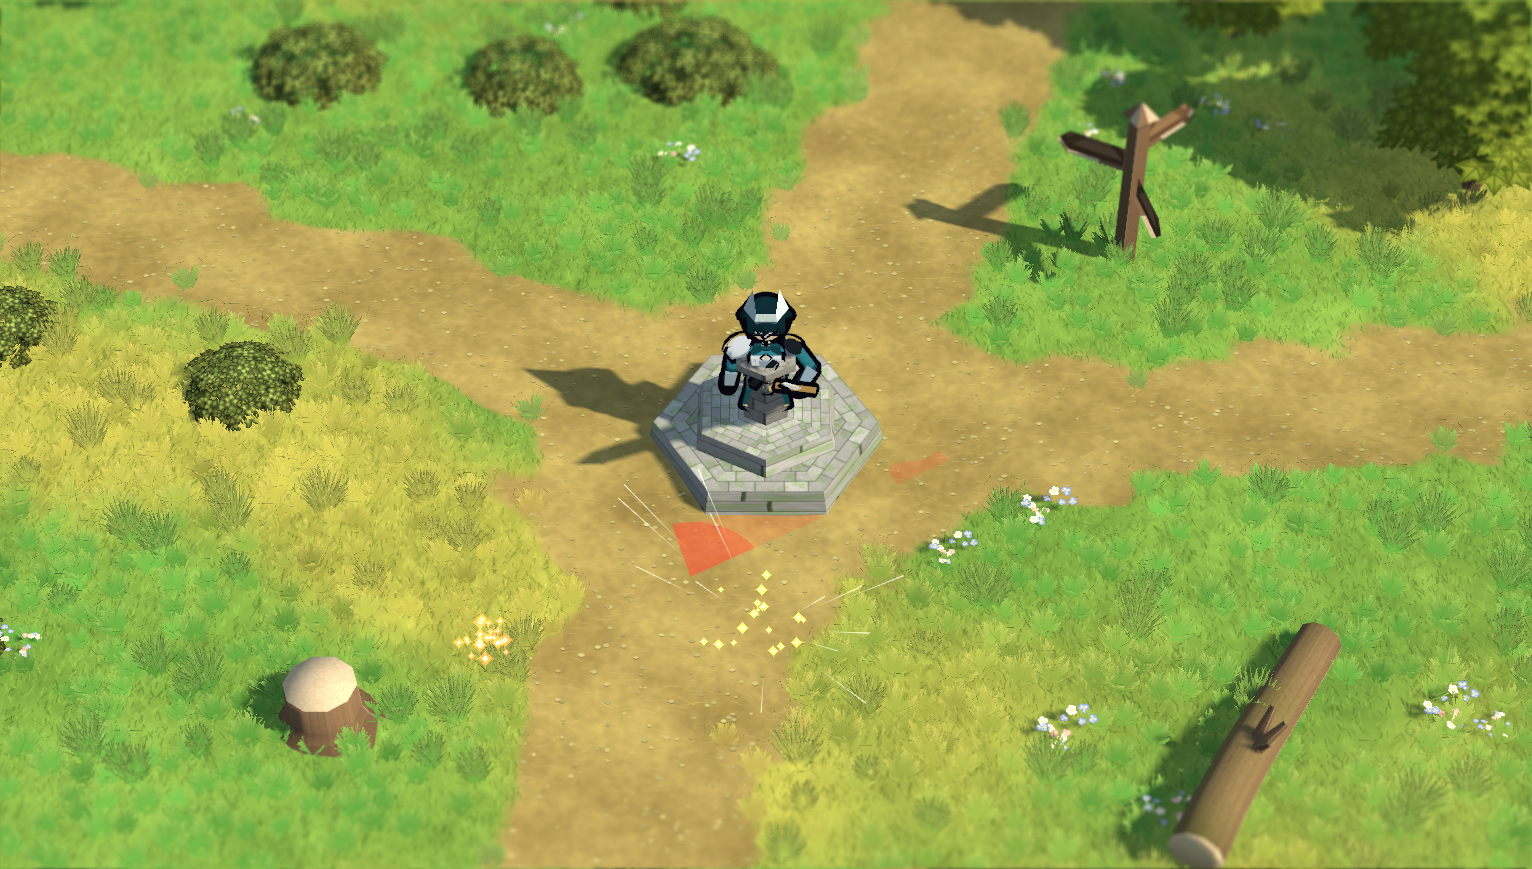
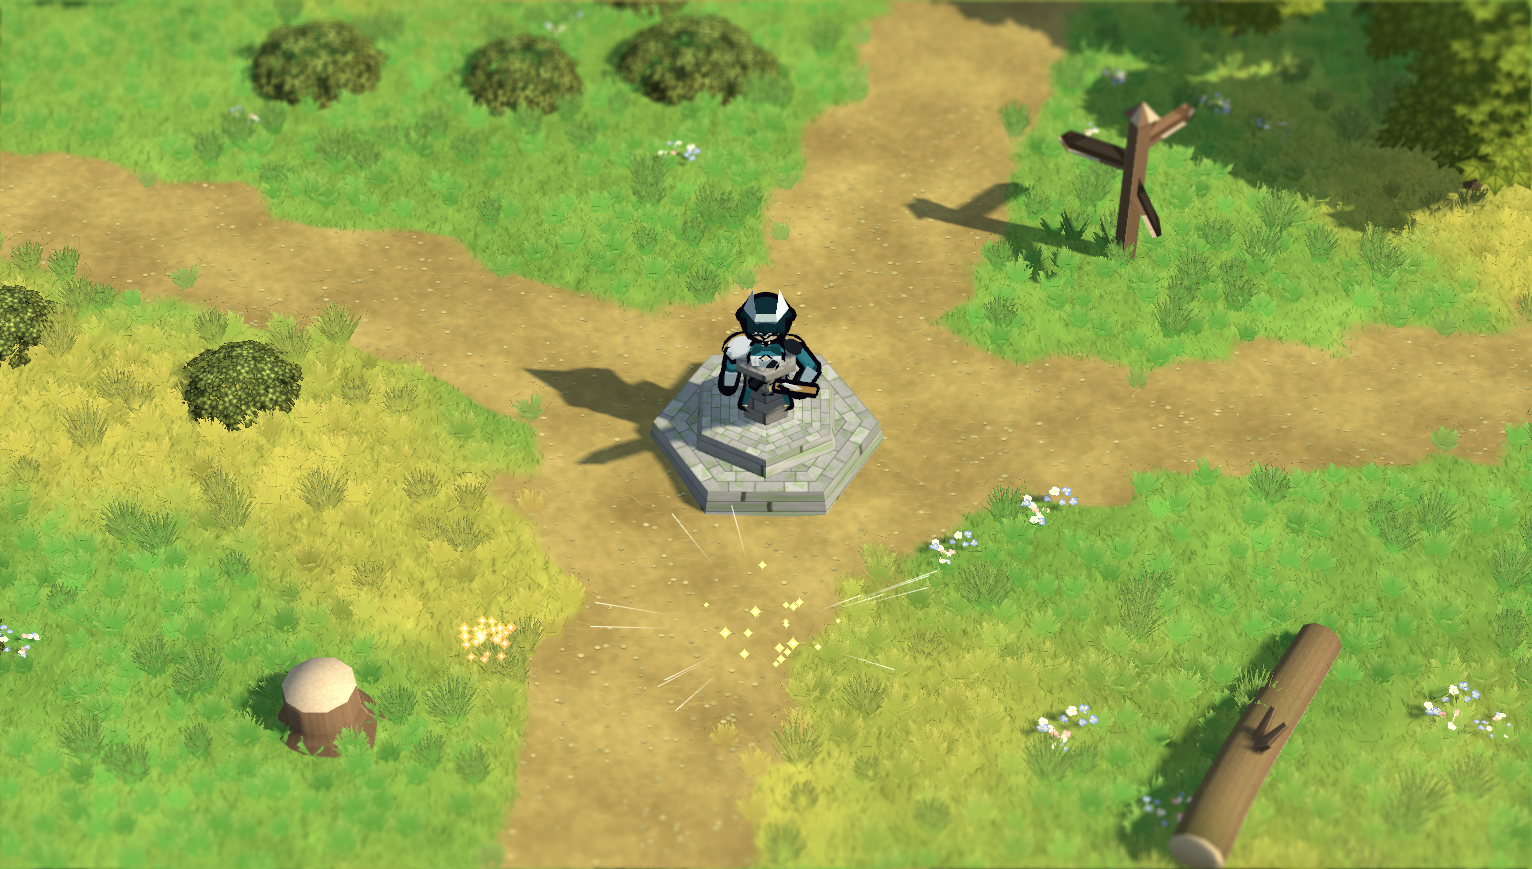
G8-5 補: 粒の弾けの赤い扇は敵の予告の板だった（確認用の撮影で予告を隠す）、加算の光の彩度と明るさをブラウザ版に（圧縮 c/(1+0.45c)・彩度 0.95・輪の芯・光線・点光源 0.15）
- 効果のない撮影との差で測る道具 measure3.py。加えた光の彩度・余地はブラウザ版の 10〜15% 以内
- 照合 8 種 OK（Sonnet）。未: 技の撮影で敵の被弾の白い光が効果に重なる（撮影の都合。見た目の差ではない）

diff --git a/art/shots/g8-5-fx/measure.py b/art/shots/g8-5-fx/measure.py
@@ -1,0 +1,21 @@
+# 効果の明るさ・彩度の比較: 効果なしの画面との差（効果の足した分）を、効果の出ている範囲で平均する
+import sys, numpy as np
+from PIL import Image
+def ld(p): return np.asarray(Image.open(p).convert('RGB')).astype(float)
+def lum(a): return a @ [0.2126, 0.7152, 0.0722]
+def sat(a): return a.max(-1) - a.min(-1)
+for st in sys.argv[2].split(','):
+    for k in sys.argv[1].split(','):
+        res = {}
+        for who, pat in (('b', 'browser/%s_%s_12.png'), ('g', 'godot/p_%s_%s_12.png')):
+            res[who] = (ld(pat % (st, k)), ld(pat % (st, 'none')))
+        db = lum(res['b'][0]) - lum(res['b'][1]); dg = lum(res['g'][0]) - lum(res['g'][1])
+        out = []
+        mb = db > 20
+        for who, d in (('b', db), ('g', dg)):
+            m = mb
+            f, base = res[who]
+            hr = ((lum(f) - lum(base)) / np.maximum(255 - lum(base), 1))[m].mean()
+            print('   headroom', who, round(hr, 3), 'base', round(lum(base)[m].mean()))
+            out.append((m.sum(), d[m].mean() if m.any() else 0, (sat(f) - sat(base))[m].mean() if m.any() else 0, lum(f)[m].mean() if m.any() else 0))
+        print('%s %-8s browser: n=%d dLum=%.1f dSat=%.1f lum=%.0f | godot: n=%d dLum=%.1f dSat=%.1f lum=%.0f | dLum ratio %.2f' % (st, k, *out[0], *out[1], out[1][1] / max(out[0][1], 1e-6)))

diff --git a/art/shots/g8-5-fx/measure2.py b/art/shots/g8-5-fx/measure2.py
@@ -1,0 +1,13 @@
+import sys, numpy as np
+from PIL import Image
+def ld(p): return np.asarray(Image.open(p).convert('RGB')).astype(float)
+def lum(a): return a @ [0.2126, 0.7152, 0.0722]
+for st in sys.argv[2].split(','):
+    for k in sys.argv[1].split(','):
+        r = []
+        for pat in ('browser/%s_%s_12.png', 'godot/p_%s_%s_12.png'):
+            f, b = ld(pat % (st, k)), ld(pat % (st, 'none'))
+            d = lum(f) - lum(b); m = np.abs(d) > 20
+            sat = lambda a: (a.max(-1) - a.min(-1))
+            r.append((((d * m).sum()) / (np.maximum(255 - lum(b), 1) * m).sum(), (sat(f) / np.maximum(f.max(-1), 1))[m].mean(), m.sum()))
+        print(st, k, 'headroom b/g %.3f/%.3f ratio %.2f | HSVsat b/g %.3f/%.3f | n %d/%d' % (r[0][0], r[1][0], r[1][0] / r[0][0], r[0][1], r[1][1], r[0][2], r[1][2]))

diff --git a/art/shots/g8-5-fx/measure3.py b/art/shots/g8-5-fx/measure3.py
@@ -1,0 +1,11 @@
+import numpy as np, sys
+from PIL import Image
+def ld(p): return np.asarray(Image.open(p).convert('RGB')).astype(float)
+def lum(a): return a @ [0.2126, 0.7152, 0.0722]
+for st in sys.argv[2].split(','):
+  for k in sys.argv[1].split(','):
+    r=[]
+    for pat in ('browser/%s_%s_12.png','godot/p_%s_%s_12.png'):
+        f,b=ld(pat%(st,k)),ld(pat%(st,'none')); d=f-b; m=lum(d)>25
+        dd=d[m]; r+= [((dd.max(-1)-dd.min(-1))/np.maximum(dd.max(-1),1)).mean(), lum(d)[m].mean(), ((lum(d)/np.maximum(255-lum(b),1))[m]).mean()]
+    print(st,k,'dchroma %.2f/%.2f  dLum %.1f/%.1f  headroom %.2f/%.2f'%(r[0],r[3],r[1],r[4],r[2],r[5]))
